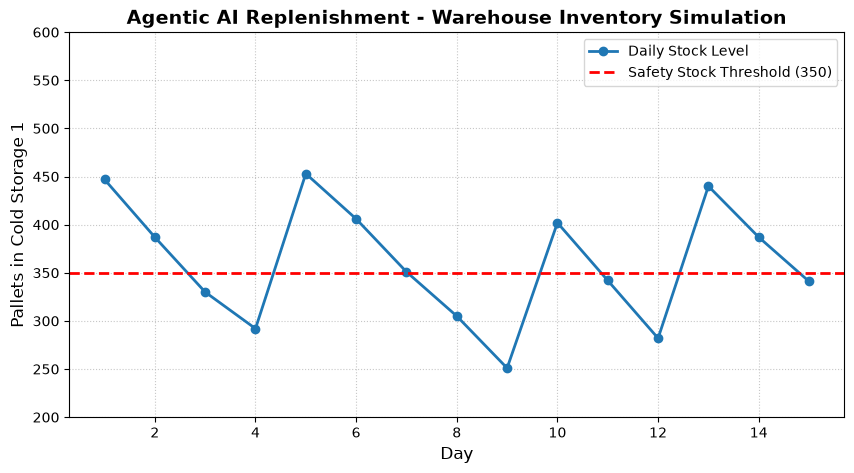
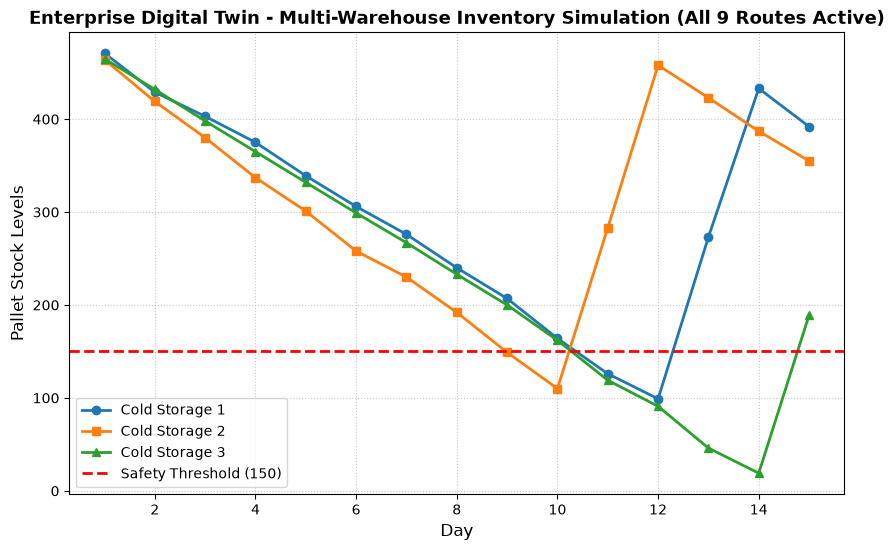
Finalize enterprise multi-warehouse simulation and chart

diff --git a/src/inventory_sim.py b/src/inventory_sim.py
@@ -2,97 +2,127 @@ import random
 import matplotlib.pyplot as plt
 from network_graph import build_supply_chain_graph
 
-def run_multi_route_optimization_simulation(days):
-    # 1. Load the Digital Twin Map
+def run_full_network_simulation(days):
+    # 1. Load the complete Digital Twin Map (all 9 routes)
     G = build_supply_chain_graph()
     
-    target_warehouse = 'Cold_Storage_2'
+    print("=" * 60)
+    print(" ENTERPRISE DIGITAL TWIN: FULL NETWORK SIMULATION (9 ROUTES) ")
+    print("=" * 60)
     
-    print(f"Connected to Digital Twin Map!")
-    print(f"-> Analyzing Inbound Routes for: {target_warehouse}\n")
+    # Print out all nodes and routes loaded from the map
+    print(f"\n[MAP INSPECTION] Total Network Nodes: {G.number_of_nodes()}")
+    print(f"[MAP INSPECTION] Total Transport Routes (Edges): {G.number_of_edges()}")
     
-    # 2. OPTIMIZATION LOGIC: Find all incoming routes to Cold_Storage_2
-    # NetworkX lets us look at all predecessors (nodes that point TO our target warehouse)
-    inbound_suppliers = list(G.predecessors(target_warehouse))
+    for u, v, data in G.edges(data=True):
+        print(f"   * Route: {u} -> {v} | Lead Time: {data['lead_time']} days | Cost: ${data['transit_cost']}")
+    print("-" * 60)
     
-    print(f"-> Found {len(inbound_suppliers)} alternative supplier plants feeding {target_warehouse}:")
+    # 2. Define Inventory Levels for all Cold Storages & Retail Hubs in the network
+    inventories = {
+        'Cold_Storage_1': 500,
+        'Cold_Storage_2': 500,
+        'Cold_Storage_3': 500,
+        'Retail_Hub_1': 200,
+        'Retail_Hub_2': 200,
+        'Retail_Hub_3': 200,
+        'Retail_Hub_4': 200,
+        'Retail_Hub_5': 200
+    }
     
-    best_supplier = None
-    lowest_cost = float('inf') # Start with an infinitely high cost placeholder
+    reorder_threshold = 150 # Reorder point for warehouses
+    order_qty = 200
     
-    # Evaluate each route to find the optimal (cheapest) one
-    for plant in inbound_suppliers:
-        edge_data = G.edges[plant, target_warehouse]
-        l_time = edge_data['lead_time']
-        t_cost = edge_data['transit_cost']
-        
-        print(f"   * Route from {plant}: Lead Time = {l_time} days | Cost = ${t_cost}")
-        
-        # Optimization Rule: Choose the route with the lowest transit cost
-        if t_cost < lowest_cost:
-            lowest_cost = t_cost
-            best_supplier = plant
-            optimal_lead_time = l_time
-
-    print(f"\n[OPTIMIZATION RESULT] AI Agent selected optimal route:")
-    print(f"-> Supplier: {best_supplier} -> {target_warehouse}")
-    print(f"-> Optimized Lead Time: {optimal_lead_time} days")
-    print(f"-> Optimized Cost: ${lowest_cost}\n")
-    
-    # 3. Simulation Setup for Cold Storage 2
-    inventory = {target_warehouse: 500}
-    reorder_point = 350
-    order_quantity = 200
-    
-    in_transit_orders = {}
+    # Trackers for our final system-wide chart
     days_tracker = []
-    stock_tracker = []
+    cs1_tracker = []
+    cs2_tracker = []
+    cs3_tracker = []
     
-    print(f"Starting {days}-Day Multi-Route Optimized Simulation...\n")
-    print("-" * 50)
+    # In-transit tracker across the network
+    in_transit_shipments = [] # Stores dictionaries of shipments
+    
+    print(f"\nStarting {days}-Day Full System Simulation...\n")
     
     for day in range(1, days + 1):
-        print(f"--- DAY {day} ---")
+        print(f"=== DAY {day} ===")
         
-        # Morning: Receive incoming shipments from the optimal plant
-        if day in in_transit_orders:
-            arriving_stock = in_transit_orders[day]
-            inventory[target_warehouse] += arriving_stock
-            print(f"[ARRIVAL] {arriving_stock} pallets arrived from {best_supplier}!")
-            del in_transit_orders[day] 
-        
-        # Afternoon: Downstream retail demand
-        daily_demand = random.randint(35, 65)
-        inventory[target_warehouse] -= daily_demand
-        print(f"Demand: {daily_demand} pallets shipped.")
-        print(f"End-of-Day Stock: {inventory[target_warehouse]} pallets.")
-        
-        # Evening: Agentic Logic using the OPTIMIZED lead time from the winning route
-        if inventory[target_warehouse] <= reorder_point:
-            total_in_transit = sum(in_transit_orders.values())
+        # 1. MORNING: Process incoming shipments across the network
+        arrived_shipments = []
+        for shipment in in_transit_shipments:
+            shipment['remaining_lead_time'] -= 1
+            if shipment['remaining_lead_time'] <= 0:
+                # Shipment arrives at destination warehouse!
+                dest = shipment['destination']
+                qty = shipment['quantity']
+                inventories[dest] += qty
+                print(f"   [ARRIVAL] {qty} pallets arrived at {dest} from {shipment['source']}!")
+                arrived_shipments.append(shipment)
+                
+        # Remove arrived shipments from active transit list
+        for arrived in arrived_shipments:
+            in_transit_shipments.remove(arrived)
             
-            if inventory[target_warehouse] + total_in_transit <= reorder_point:
-                arrival_day = day + optimal_lead_time
-                in_transit_orders[arrival_day] = order_quantity
-                print(f"--> [AGENT ACTION] Stock critical at {target_warehouse}.")
-                print(f"--> [OPTIMIZED DISPATCH] Truck dispatched via {best_supplier}. Arriving in {optimal_lead_time} days (Day {arrival_day}).")
+        # 2. AFTERNOON: Downstream retail demand pulls inventory
+        for node in inventories:
+            if 'Retail' in node:
+                # Retail demand
+                demand = random.randint(10, 25)
+                inventories[node] = max(0, inventories[node] - demand)
+            elif 'Cold_Storage' in node:
+                # Cold storage experiences daily baseline warehouse loss/demand
+                demand = random.randint(25, 45)
+                inventories[node] -= demand
         
+        # 3. EVENING: Agentic Replenishment Logic for Cold Storages
+        for cs_node in ['Cold_Storage_1', 'Cold_Storage_2', 'Cold_Storage_3']:
+            if inventories[cs_node] <= reorder_threshold:
+                # Find optimal inbound supplier route from our graph map!
+                inbound_suppliers = list(G.predecessors(cs_node))
+                best_supplier = inbound_suppliers[0] # Default to first
+                lowest_cost = float('inf')
+                
+                # Optimize by cost
+                for sup in inbound_suppliers:
+                    cost = G.edges[sup, cs_node]['transit_cost']
+                    if cost < lowest_cost:
+                        lowest_cost = cost
+                        best_supplier = sup
+                        
+                lead_time = G.edges[best_supplier, cs_node]['lead_time']
+                
+                # Dispatch order
+                in_transit_shipments.append({
+                    'source': best_supplier,
+                    'destination': cs_node,
+                    'quantity': order_qty,
+                    'remaining_lead_time': lead_time
+                })
+                print(f"   --> [AGENT ACTION] Low stock at {cs_node} ({inventories[cs_node]} left). Ordered {order_qty} from {best_supplier} (Lead Time: {lead_time} days).")
+
+        # Record daily metrics for charting
         days_tracker.append(day)
-        stock_tracker.append(inventory[target_warehouse])
+        cs1_tracker.append(inventories['Cold_Storage_1'])
+        cs2_tracker.append(inventories['Cold_Storage_2'])
+        cs3_tracker.append(inventories['Cold_Storage_3'])
+        
+        print(f"   [End-of-Day Status] CS1: {inventories['Cold_Storage_1']} | CS2: {inventories['Cold_Storage_2']} | CS3: {inventories['Cold_Storage_3']}")
         print("-" * 50)
 
-    # Generate the chart
-    plt.figure(figsize=(10, 5))
-    plt.plot(days_tracker, stock_tracker, marker='o', linestyle='-', color='#2ca02c', label=f'Stock Level ({target_warehouse})', linewidth=2)
-    plt.axhline(y=reorder_point, color='red', linestyle='--', label='Safety Stock Threshold (350)', linewidth=2)
-    plt.title(f"Multi-Route Optimization - {target_warehouse} (Optimized via {best_supplier})", fontsize=14, fontweight='bold')
+    # 4. Generate Multi-Warehouse Enterprise Chart
+    plt.figure(figsize=(10, 6))
+    plt.plot(days_tracker, cs1_tracker, marker='o', label='Cold Storage 1', linewidth=2)
+    plt.plot(days_tracker, cs2_tracker, marker='s', label='Cold Storage 2', linewidth=2)
+    plt.plot(days_tracker, cs3_tracker, marker='^', label='Cold Storage 3', linewidth=2)
+    
+    plt.axhline(y=reorder_threshold, color='red', linestyle='--', label='Safety Threshold (150)', linewidth=2)
+    plt.title("Enterprise Digital Twin - Multi-Warehouse Inventory Simulation (All 9 Routes Active)", fontsize=13, fontweight='bold')
     plt.xlabel("Day", fontsize=12)
-    plt.ylabel(f"Pallets in {target_warehouse}", fontsize=12)
-    plt.ylim(200, 600)
+    plt.ylabel("Pallet Stock Levels", fontsize=12)
     plt.legend()
     plt.grid(True, linestyle=':', alpha=0.7)
     plt.savefig("inventory_chart.png", bbox_inches='tight')
-    print("\nSuccess! Multi-route optimized chart saved as inventory_chart.png")
+    print("\nSuccess! Full enterprise multi-warehouse chart saved as inventory_chart.png")
 
 if __name__ == "__main__":
-    run_multi_route_optimization_simulation(15)
+    run_full_network_simulation(15)
